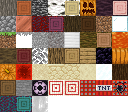
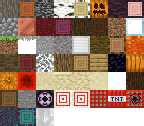
修方块贴图糊与边缘红线：图集 NPOT 缩放 + UV padding + 点采样
现象：方块贴图看不清、每块边缘有一条红色细线。
排查：逐个像素量出红线的颜色，发现图集里红石那一行的颜色；日志打印图集运行时尺寸
发现 144x126 被 Unity 的 Non-Power of 2 导入设置缩成了 128x128，UV 就整体错位了。
另外图集没有 padding，UV 落在格子边缘时点采样会串到相邻像素。

改动：
- BuildScript.cs：SetupTextures 加 npotScale=None、uncompressed、Point
- tools/build_atlas.py：每格 18x18，外面 1 像素复制边缘做 padding，图集 144x126
- BlockCatalog.cs：新增 TilePadding=1、CellPixels=18
- BlockMesh.cs：UV 只取格子内部 16x16；顶点 0.5→0.5005 消掉相邻方块之间的 1px 缝
- Bootstrap.cs：相机距离 SizeY*1.35→1.05，让场地占满画面
- 构建脚本分辨率 1440x900

验证：重建后日志打印 size=144x126，放大截图确认红线消失、贴图清晰。

diff --git a/Assets/Scripts/Core/BlockMesh.cs b/Assets/Scripts/Core/BlockMesh.cs
@@ -4,11 +4,14 @@ using UnityEngine;
 namespace MinecraftTetris
 {
     /// <summary>
-    /// 把 BlockDef 做成一个 1×1×1 的立方体网格，UV 从图集取。
+    /// 把 BlockDef 做成一个立方体网格，UV 从图集取。
     /// 全场方块共用一份材质，靠图集区分外观。
     /// </summary>
     public static class BlockMesh
     {
+        // 顶点比 1 单位稍微大一点，让相邻方块重叠，避免交界处出现 1 像素的缝
+        const float Half = 0.5005f;
+
         static Material _atlasMaterial;
         static Material _transparentMaterial;
 
@@ -22,7 +25,19 @@ namespace MinecraftTetris
                     // 所以正常路径是加载工程里引用了该 shader 的材质资源。
                     _atlasMaterial = Resources.Load<Material>("BlockMat");
                     if (_atlasMaterial == null)
+                    {
                         _atlasMaterial = BuildFallback("Unlit/Texture");
+                    }
+                    else
+                    {
+                        var tex = _atlasMaterial.mainTexture as Texture2D;
+                        if (tex != null)
+                            Debug.Log("[MinecraftTetris] atlas filter=" + tex.filterMode
+                                      + " size=" + tex.width + "x" + tex.height
+                                      + " mips=" + tex.mipmapCount);
+                        else
+                            Debug.LogWarning("[MinecraftTetris] BlockMat 没有主纹理");
+                    }
                 }
                 return _atlasMaterial;
             }
@@ -64,45 +79,45 @@ namespace MinecraftTetris
 
             // 上面（+y）
             Quad(verts, uvs, tris, def.Top,
-                new Vector3(-0.5f, 0.5f, 0.5f),
-                new Vector3(0.5f, 0.5f, 0.5f),
-                new Vector3(0.5f, 0.5f, -0.5f),
-                new Vector3(-0.5f, 0.5f, -0.5f));
+                new Vector3(-Half, Half, Half),
+                new Vector3(Half, Half, Half),
+                new Vector3(Half, Half, -Half),
+                new Vector3(-Half, Half, -Half));
 
             // 下面（-y）
             Quad(verts, uvs, tris, def.Bottom,
-                new Vector3(-0.5f, -0.5f, -0.5f),
-                new Vector3(0.5f, -0.5f, -0.5f),
-                new Vector3(0.5f, -0.5f, 0.5f),
-                new Vector3(-0.5f, -0.5f, 0.5f));
+                new Vector3(-Half, -Half, -Half),
+                new Vector3(Half, -Half, -Half),
+                new Vector3(Half, -Half, Half),
+                new Vector3(-Half, -Half, Half));
 
             // 北（+z）
             Quad(verts, uvs, tris, def.Side,
-                new Vector3(-0.5f, -0.5f, 0.5f),
-                new Vector3(0.5f, -0.5f, 0.5f),
-                new Vector3(0.5f, 0.5f, 0.5f),
-                new Vector3(-0.5f, 0.5f, 0.5f));
+                new Vector3(-Half, -Half, Half),
+                new Vector3(Half, -Half, Half),
+                new Vector3(Half, Half, Half),
+                new Vector3(-Half, Half, Half));
 
             // 南（-z）
             Quad(verts, uvs, tris, def.Side,
-                new Vector3(0.5f, -0.5f, -0.5f),
-                new Vector3(-0.5f, -0.5f, -0.5f),
-                new Vector3(-0.5f, 0.5f, -0.5f),
-                new Vector3(0.5f, 0.5f, -0.5f));
+                new Vector3(Half, -Half, -Half),
+                new Vector3(-Half, -Half, -Half),
+                new Vector3(-Half, Half, -Half),
+                new Vector3(Half, Half, -Half));
 
             // 东（+x）
             Quad(verts, uvs, tris, def.Side,
-                new Vector3(0.5f, -0.5f, 0.5f),
-                new Vector3(0.5f, -0.5f, -0.5f),
-                new Vector3(0.5f, 0.5f, -0.5f),
-                new Vector3(0.5f, 0.5f, 0.5f));
+                new Vector3(Half, -Half, Half),
+                new Vector3(Half, -Half, -Half),
+                new Vector3(Half, Half, -Half),
+                new Vector3(Half, Half, Half));
 
             // 西（-x）
             Quad(verts, uvs, tris, def.Side,
-                new Vector3(-0.5f, -0.5f, -0.5f),
-                new Vector3(-0.5f, -0.5f, 0.5f),
-                new Vector3(-0.5f, 0.5f, 0.5f),
-                new Vector3(-0.5f, 0.5f, -0.5f));
+                new Vector3(-Half, -Half, -Half),
+                new Vector3(-Half, -Half, Half),
+                new Vector3(-Half, Half, Half),
+                new Vector3(-Half, Half, -Half));
 
             Mesh mesh = new Mesh();
             mesh.SetVertices(verts);
@@ -122,15 +137,25 @@ namespace MinecraftTetris
             v.Add(c);
             v.Add(d);
 
-            float du = 1f / BlockCatalog.AtlasColumns;
-            float dv = 1f / BlockCatalog.AtlasRows;
-            float u0 = tile.Col * du;
-            float v0 = 1f - (tile.Row + 1) * dv;
+            // 图集每个格子外面有 1 像素 padding（复制边缘像素），
+            // 所以 UV 只取格子内部那 16×16；边缘附近就算采样越界，取到的也是同一块方块的边缘色。
+            int cell = BlockCatalog.CellPixels;
+            int pad = BlockCatalog.TilePadding;
+            float w = (float)BlockCatalog.AtlasColumns * cell;
+            float h = (float)BlockCatalog.AtlasRows * cell;
+
+            float x0 = tile.Col * cell + pad;
+            float yTop = tile.Row * cell + pad;
+
+            float u0 = x0 / w;
+            float u1 = (x0 + BlockCatalog.TilePixels) / w;
+            float v1 = 1f - yTop / h;
+            float v0 = 1f - (yTop + BlockCatalog.TilePixels) / h;
 
             uv.Add(new Vector2(u0, v0));
-            uv.Add(new Vector2(u0 + du, v0));
-            uv.Add(new Vector2(u0 + du, v0 + dv));
-            uv.Add(new Vector2(u0, v0 + dv));
+            uv.Add(new Vector2(u1, v0));
+            uv.Add(new Vector2(u1, v1));
+            uv.Add(new Vector2(u0, v1));
 
             t.Add(i);
             t.Add(i + 1);

diff --git a/tools/build_atlas.py b/tools/build_atlas.py
@@ -1,14 +1,18 @@
-# 把 Assets/Art/Blocks 下的单张方块贴图拼成一张图集
-# 8 列，每格 16×16，行数按贴图数量自动取整
+# 把 Assets/Art/Blocks 下的单张方块贴图拼成一张图集。
+# 每个格子外扩 1 像素（复制边缘像素做 padding），这样 UV 采样在格子边界附近越界时，
+# 取到的还是这块方块自己的边缘颜色，不会串到相邻格子的贴图（之前方块边缘出现的红线就是这么来的）。
 # 用法：python tools/build_atlas.py
 from pathlib import Path
 
+import numpy as np
 from PIL import Image
 
 ROOT = Path(__file__).resolve().parent.parent
 BLOCKS = ROOT / "Assets" / "Art" / "Blocks"
 OUT = ROOT / "Assets" / "Resources" / "atlas.png"
 TILE = 16
+PAD = 1
+CELL = TILE + PAD * 2
 COLS = 8
 
 
@@ -18,19 +22,23 @@ def main():
         raise SystemExit("没有找到方块贴图")
 
     rows = (len(files) + COLS - 1) // COLS
-    atlas = Image.new("RGBA", (COLS * TILE, rows * TILE), (0, 0, 0, 0))
+    atlas = Image.new("RGBA", (COLS * CELL, rows * CELL), (0, 0, 0, 0))
 
     mapping = {}
     for i, f in enumerate(files):
         img = Image.open(f).convert("RGBA")
         if img.size != (TILE, TILE):
             img = img.resize((TILE, TILE), Image.NEAREST)
+        arr = np.array(img)
+        arr = np.pad(arr, ((PAD, PAD), (PAD, PAD), (0, 0)), mode="edge")
+        padded = Image.fromarray(arr)
         col, row = i % COLS, i // COLS
-        atlas.paste(img, (col * TILE, row * TILE))
+        atlas.paste(padded, (col * CELL, row * CELL))
         mapping[f.name] = {"col": col, "row": row}
 
     atlas.save(OUT)
-    print("atlas: %s  %dx%d  tiles=%d  grid=%dx%d" % (OUT, atlas.width, atlas.height, len(files), COLS, rows))
+    print("atlas: %s  %dx%d  tiles=%d  grid=%dx%d  cell=%d(pad %d)"
+          % (OUT, atlas.width, atlas.height, len(files), COLS, rows, CELL, PAD))
     for name, pos in mapping.items():
         print("  %-32s col=%d row=%d" % (name, pos["col"], pos["row"]))
 

diff --git a/Assets/Editor/BuildScript.cs b/Assets/Editor/BuildScript.cs
@@ -41,8 +41,8 @@ namespace MinecraftTetris.EditorTools
         {
             PlayerSettings.fullScreenMode = FullScreenMode.Windowed;
             PlayerSettings.resizableWindow = true;
-            PlayerSettings.defaultScreenWidth = 1280;
-            PlayerSettings.defaultScreenHeight = 800;
+            PlayerSettings.defaultScreenWidth = 1440;
+            PlayerSettings.defaultScreenHeight = 900;
             PlayerSettings.runInBackground = true;
             PlayerSettings.companyName = "MinecraftTetris";
             PlayerSettings.productName = "MinecraftTetris";
@@ -60,6 +60,9 @@ namespace MinecraftTetris.EditorTools
                 importer.mipmapEnabled = false;
                 importer.alphaIsTransparency = true;
                 importer.wrapMode = TextureWrapMode.Clamp;
+                // 图集尺寸不是 2 的幂（144×126），Unity 默认会把它缩成 128×128，
+                // 而 UV 是按 144×126 算的，一缩放就整体错位、边缘串到相邻格子。
+                importer.npotScale = TextureImporterNPOTScale.None;
                 importer.SaveAndReimport();
                 Debug.Log("[MinecraftTetris] 图集导入设置: Point / 不压缩 / 无 mipmap");
             }

diff --git a/Assets/Scripts/Core/BlockCatalog.cs b/Assets/Scripts/Core/BlockCatalog.cs
@@ -45,6 +45,8 @@ namespace MinecraftTetris
         public const int AtlasColumns = 8;
         public const int AtlasRows = 7;
         public const int TilePixels = 16;
+        public const int TilePadding = 1;
+        public const int CellPixels = TilePixels + TilePadding * 2;
 
         static readonly Dictionary<string, Tile> Tiles = new Dictionary<string, Tile>
         {
